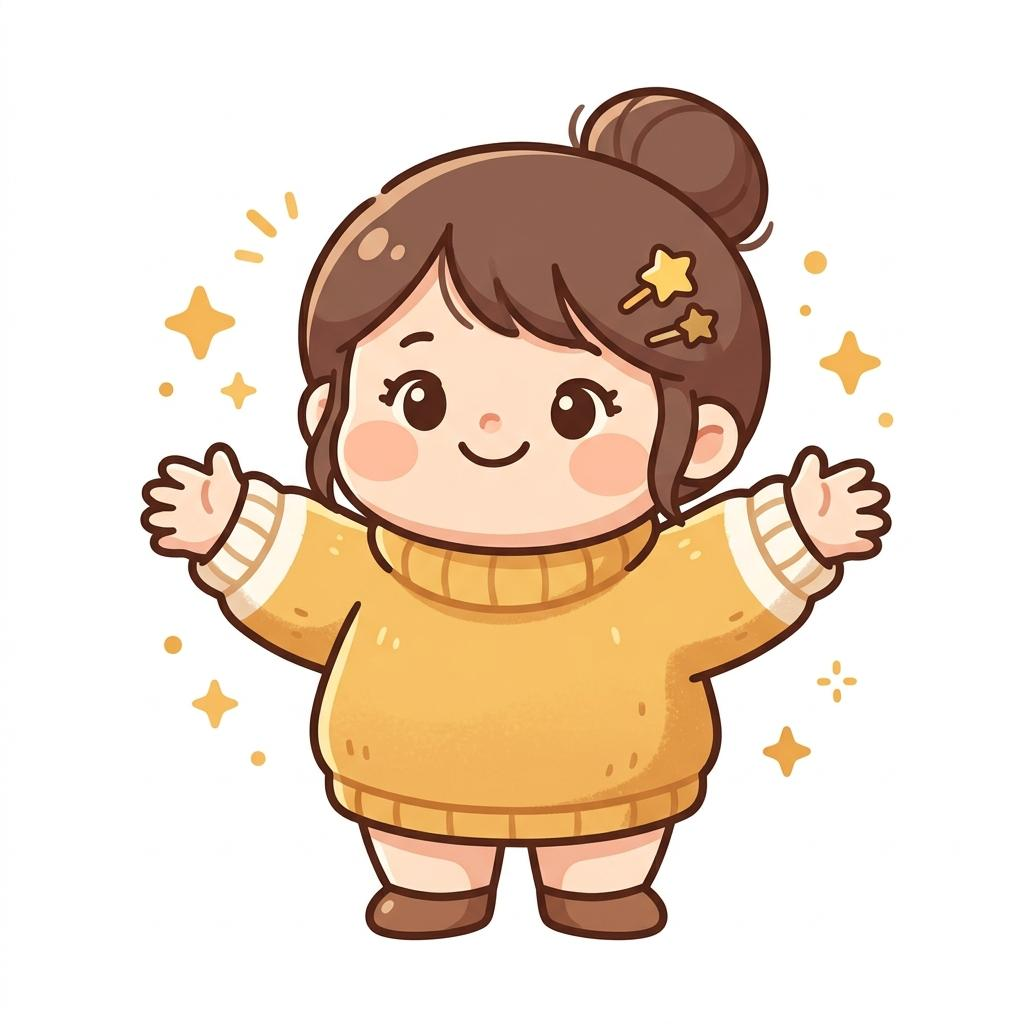
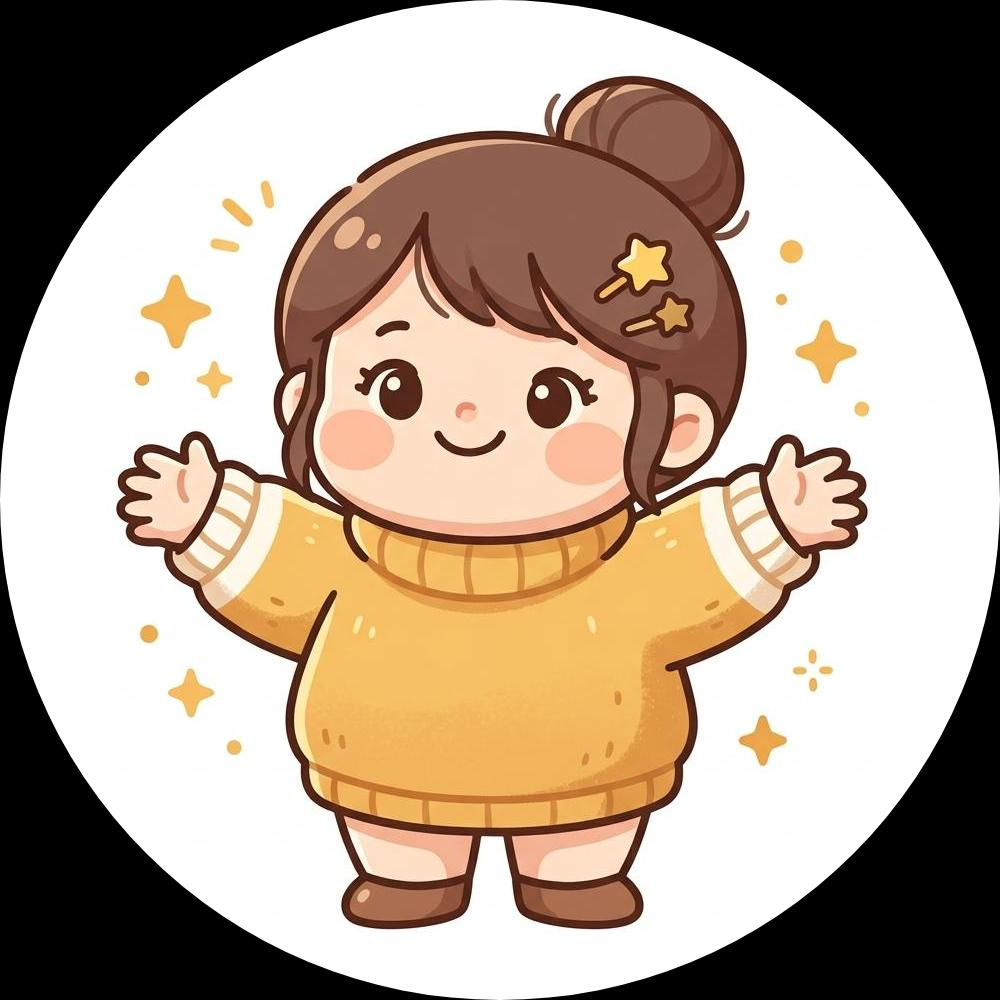
docs: update CLAUDE.md for v1.1, refresh character assets

diff --git a/CLAUDE.md b/CLAUDE.md
@@ -24,25 +24,35 @@ No build step — static HTML/CSS/JS served directly.
 ```
 data.js → scoring.js → radar.js → db.js → main.js
 ```
-Files communicate via global variables (`QUESTIONNAIRE_DATA`, `PARENT_TYPES`, `CHARACTER_SVGS`, `answers`, `currentStep`).
+Files communicate via global variables (`QUESTIONNAIRE_DATA`, `PARENT_TYPES`, `CHARACTER_IMAGES`, `SUGGESTIONS_POOL`, `answers`, `currentStep`).
 
 ## Key Modules
 
 | File | Role |
 |------|------|
 | `js/data.js` | Question text, structure (`QUESTIONNAIRE_DATA`), step definitions (`STEPS`) |
-| `js/scoring.js` | FIQ/CCNES/teacher-child scoring, type determination (`determineType()`), parent type metadata (`PARENT_TYPES`), inline SVG characters (`CHARACTER_SVGS`) |
-| `js/radar.js` | Chart.js radar chart wrapper (`renderRadarChart()`) |
+| `js/scoring.js` | FIQ/CCNES/teacher-child scoring, type determination (`determineType()`), parent type metadata (`PARENT_TYPES`), character image paths (`CHARACTER_IMAGES`), suggestion pool (`SUGGESTIONS_POOL` + `getRandomSuggestions()`) |
+| `js/radar.js` | Chart.js radar chart wrappers (`renderRadarChart()`, `renderTCRadarChart()`) |
 | `js/db.js` | CloudBase SDK integration, response serialization (`saveResponse()`, `buildResponseData()`) |
-| `js/main.js` | SPA orchestration: step navigation, question rendering, validation, localStorage persistence, results display, share card |
+| `js/main.js` | SPA orchestration: step navigation, question rendering, validation with unanswered-highlight, localStorage persistence, results display, share card |
+
+## Assets
+
+- **Character images:** `assets/characters/{全情护航者,学业主导者,温暖陪伴者,成长探索者}.jpg` — mapped in `CHARACTER_IMAGES` in `scoring.js`
+- **Logo:** `assets/logo/Kindy_lab.webp`, `assets/logo/cuhksz-hss-logo.png`
+- **QR code:** `assets/qrcode.png`
 
 ## Scoring Pipeline
 
 `submitQuestionnaire()` calls in sequence:
 1. `computeFIQ(answers)` → section means (home 8 items, school 11 items, comm 17 items), normalized 0-100
 2. `computeCCNES(answers)` → 6 strategy means (EE/EF/PF/MIN/DIS/PUN), supportive vs suppressive composite
-3. `computeTeacherChild(answers)` → mean of 25 items (6 reverse-coded), **does NOT affect type**
+3. `computeTeacherChild(answers)` → mean of 25 items (6 reverse-coded) + per-group breakdown for teacher-child radar. **Does NOT affect type**
 4. `determineType()` → 2×2 matrix: `fiq_total >= 2.5` × `emotion_diff >= 0` → 4 types
+
+## Results Page
+
+Two radar charts: main (5 axes: home/school/comm/emotion/problem-solving) and teacher-child (6 sub-dimensions). Suggestions drawn from `SUGGESTIONS_POOL` via `getRandomSuggestions(type, 3)`. Share card is a deep-purple gradient card rendered with html2canvas for download.
 
 ## Type Thresholds
 
@@ -56,5 +66,7 @@ Primary: Tencent CloudBase (`kindylab-1gf3c18x96831580`, collection `questionnai
 
 - **Add/edit questions:** Modify `QUESTIONNAIRE_DATA` in `js/data.js`, update validator in `js/main.js`, add field to `buildResponseData()` in `js/db.js`
 - **Change scoring:** Update functions in `js/scoring.js`, adjust normalization if scale changes
-- **Change types:** Edit `PARENT_TYPES`, `CHARACTER_SVGS`, and `determineType()` in `js/scoring.js`
+- **Change types:** Edit `PARENT_TYPES`, `CHARACTER_IMAGES`, `SUGGESTIONS_POOL`, and `determineType()` in `js/scoring.js`
 - **Update threshold constants:** Change `THRESHOLD_FIQ` and `THRESHOLD_EMOTION_DIFF` in `js/scoring.js`
+- **Update suggestions:** Edit `SUGGESTIONS_POOL` arrays in `js/scoring.js` (8 per type, random 3 shown)
+- **Change character images:** Replace JPG files in `assets/characters/` and update `CHARACTER_IMAGES` paths in `scoring.js`
